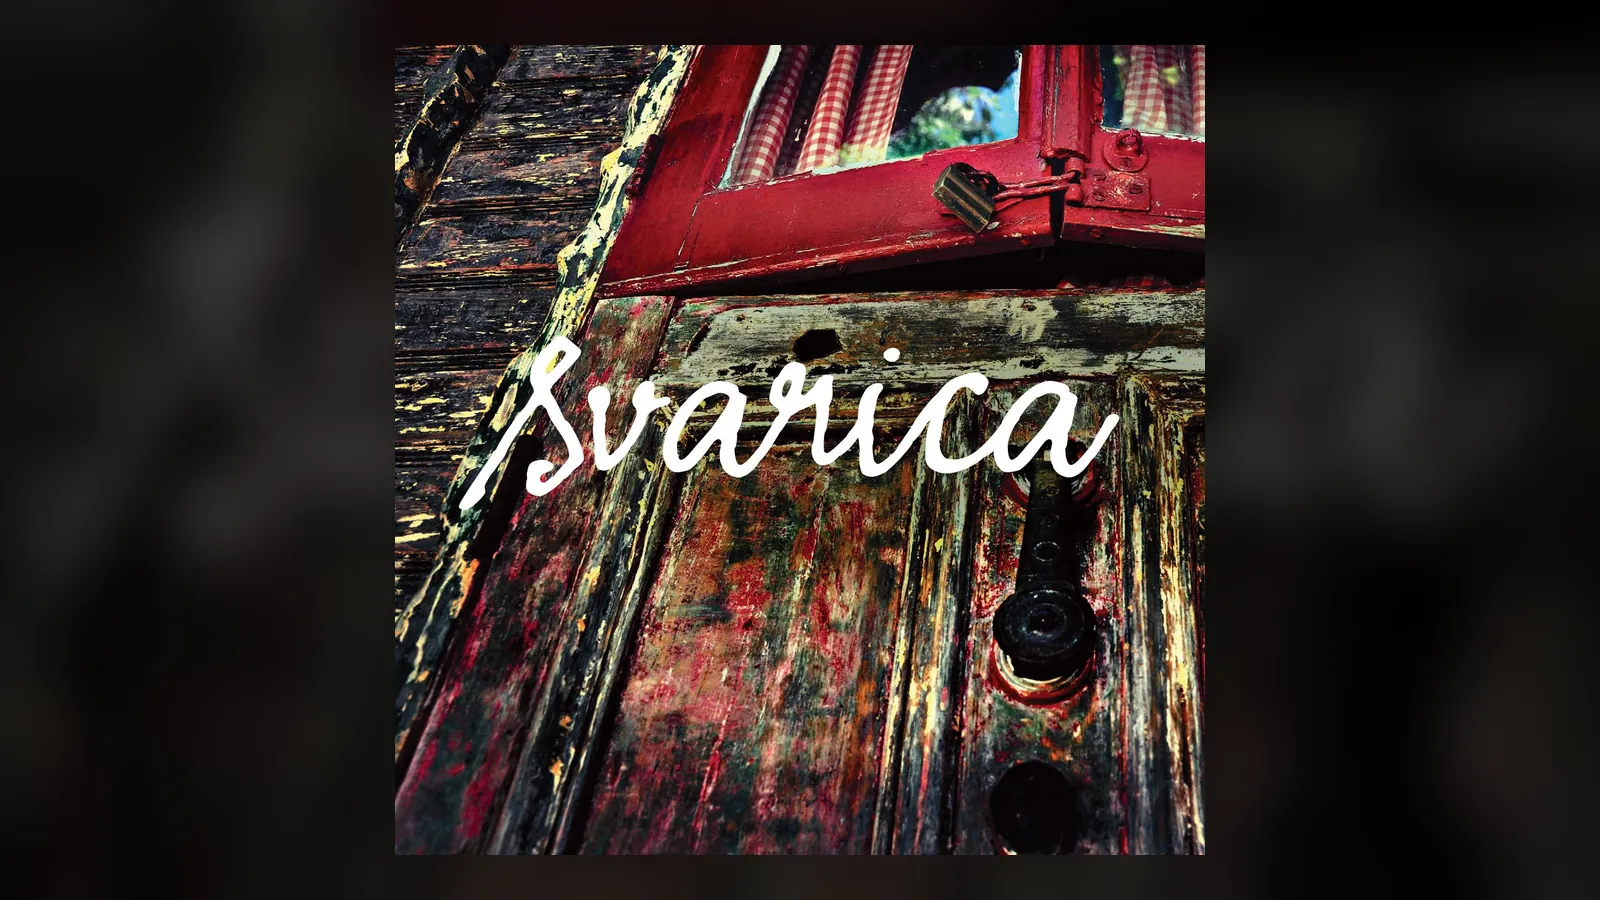
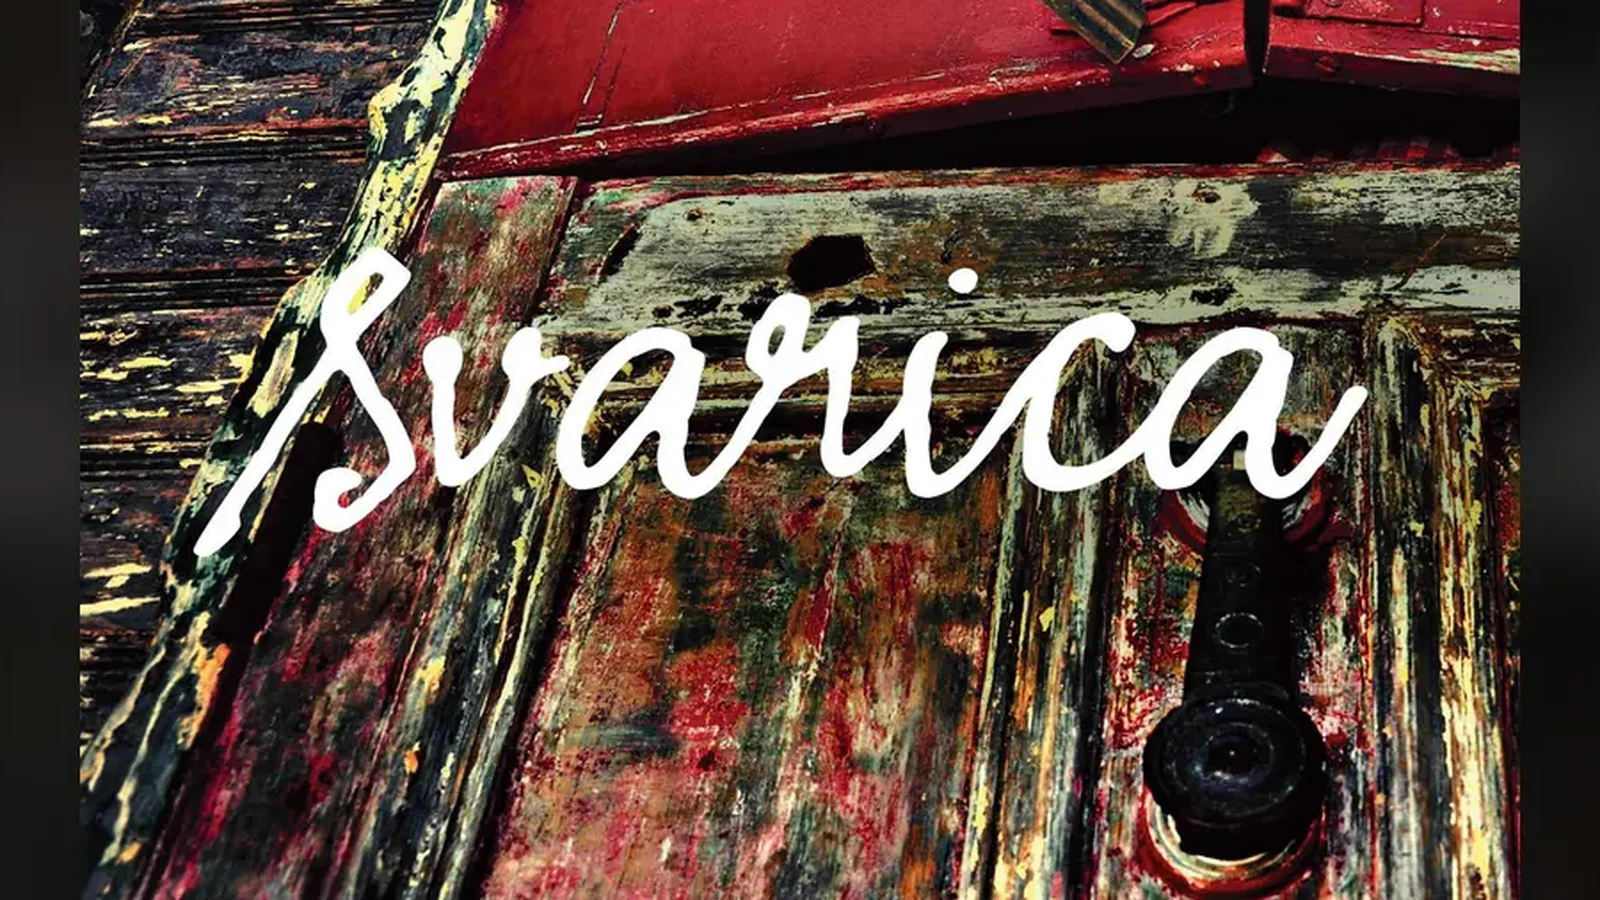
Retouches programmation : photo viking réelle (tuile), Skarazula+Harfang en tête des groupes, photos de groupes plein cadre (Caravane/BicOasis/Svarica), mots chronique et bestiaire retirés, Trifolys corrigé

diff --git a/src/pages/MusiquePage.tsx b/src/pages/MusiquePage.tsx
@@ -42,17 +42,17 @@ const JOUR_ORDRE: Record<GroupeJour, number> = { vendredi: 0, samedi: 1, dimanch
 // les corrections d'Alex (chaque portrait montre le bon groupe).
 const BANDS_ARCHIVES: Band[] = [
   {
-    name:  'L’Harfang',
-    image: '/wix/musique/407628b7.jpg',
-    bioFR: 'Jouant pour le festival depuis le tout début, L’Harfang est un duo de musique folklorique, médiévale, baroque et balfolk moderne. Vielle à roue (Alison Gowan) et musette 16 pouces (Éric Pichette).',
-    bioEN: 'Playing the festival since the very beginning, L’Harfang is a folk/medieval/baroque/balfolk duo led by hurdy-gurdy (Alison Gowan) and 16-inch musette bagpipe (Éric Pichette).',
-  },
-  {
     name:    'Skarazula',
     image:   '/wix/musique/2c6a22e9.jpg',
     website: 'https://www.skarazula.com',
     bioFR: 'Les musiciens de Skarazula cultivent depuis des années un intérêt pour la musique ancienne et poursuivent leurs recherches dans l’univers foisonnant de la musique médiévale. Plus d’un instrument dans leur sac, beaucoup confectionnés par le groupe lui-même.',
     bioEN: 'Skarazula’s musicians have cultivated for many years an interest in early music and continue their research into the rich, fascinating world of medieval music. More than one instrument in their bag, many handmade by the group itself.',
+  },
+  {
+    name:  'L’Harfang',
+    image: '/wix/musique/407628b7.jpg',
+    bioFR: 'Jouant pour le festival depuis le tout début, L’Harfang est un duo de musique folklorique, médiévale, baroque et balfolk moderne. Vielle à roue (Alison Gowan) et musette 16 pouces (Éric Pichette).',
+    bioEN: 'Playing the festival since the very beginning, L’Harfang is a folk/medieval/baroque/balfolk duo led by hurdy-gurdy (Alison Gowan) and 16-inch musette bagpipe (Éric Pichette).',
   },
   {
     name:    'Mystic Projekt',
@@ -93,6 +93,21 @@ const BANDS_ARCHIVES: Band[] = [
 // Encore en construction : d'autres noms s'ajouteront.
 const AFFICHE_2026_BANDS: Band[] = [
   {
+    name:    'Skarazula',
+    jour:    'vendredi',
+    image:   '/wix/musique/2c6a22e9.jpg',
+    website: 'https://www.skarazula.com',
+    bioFR: 'Les musiciens de Skarazula cultivent depuis des années un intérêt pour la musique ancienne et poursuivent leurs recherches dans l’univers foisonnant de la musique médiévale. Plus d’un instrument dans leur sac, plusieurs confectionnés par le groupe lui-même.',
+    bioEN: 'Skarazula’s musicians have cultivated for many years an interest in early music and continue their research into the rich, fascinating world of medieval music. More than one instrument in their bag, many handmade by the group itself.',
+  },
+  {
+    name:  'L’Harfang',
+    jour:  'samedi',
+    image: '/wix/musique/407628b7.jpg',
+    bioFR: 'Jouant pour le festival depuis le tout début, L’Harfang est un duo de musique folklorique, médiévale, baroque et balfolk moderne. Vielle à roue (Alison Gowan) et musette 16 pouces (Éric Pichette).',
+    bioEN: 'Playing the festival since the very beginning, L’Harfang is a folk/medieval/baroque/balfolk duo led by hurdy-gurdy (Alison Gowan) and 16-inch musette bagpipe (Éric Pichette).',
+  },
+  {
     name:    'Troupe Caravane',
     jour:    'vendredi',
     image:   '/wix/musique/troupe-caravane.webp',
@@ -100,14 +115,6 @@ const AFFICHE_2026_BANDS: Band[] = [
     website: 'http://www.troupecaravane.com',
     bioFR: 'Fondée à Montréal en 1980 par Sarah Barbieux, d’origine rom, la troupe CARAVANE porte le spectacle festif et participatif Fuego Bohemio : rumba flamenca, musique tzigane, chants et danses romanichelles. Sarah Barbieux (voix, danse, tambour) et Sylvain Chiasson (guitare, voix, flûte de pan, percussions).',
     bioEN: 'Founded in Montreal in 1980 by Sarah Barbieux, of Roma descent, the CARAVANE troupe brings its festive, participatory show Fuego Bohemio: rumba flamenca, Romani music, songs and bohemian dance. Sarah Barbieux (voice, dance, drum) and Sylvain Chiasson (guitar, voice, pan flute, percussion).',
-  },
-  {
-    name:    'Skarazula',
-    jour:    'vendredi',
-    image:   '/wix/musique/2c6a22e9.jpg',
-    website: 'https://www.skarazula.com',
-    bioFR: 'Les musiciens de Skarazula cultivent depuis des années un intérêt pour la musique ancienne et poursuivent leurs recherches dans l’univers foisonnant de la musique médiévale. Plus d’un instrument dans leur sac, plusieurs confectionnés par le groupe lui-même.',
-    bioEN: 'Skarazula’s musicians have cultivated for many years an interest in early music and continue their research into the rich, fascinating world of medieval music. More than one instrument in their bag, many handmade by the group itself.',
   },
   {
     name:    'L’Ensemble Klezmer de Sainte-Nigoune',
@@ -126,13 +133,6 @@ const AFFICHE_2026_BANDS: Band[] = [
     website: 'https://www.youtube.com/@BicOasis',
     bioFR: 'Rencontre de deux multi-instrumentistes : Mathieu Lavoie (bouzouki, morache, saz, vielle à roue) et William Provost (tambours, darbouka, tambour à lamelles, flûte à bourdon, cornemuse). Les traditions du monde entier passent au looper, aux synthés et aux pédales d’effets : une musique hybride, ancienne et moderne à la fois, organique et hypnotique.',
     bioEN: 'Two multi-instrumentalists meeting: Mathieu Lavoie (bouzouki, morache, saz, hurdy-gurdy) and William Provost (drums, darbuka, tongue drum, drone flute, bagpipe). Folk traditions from around the world run through loopers, synths and effect pedals: hybrid music, ancient and modern at once, organic and hypnotic.',
-  },
-  {
-    name:  'L’Harfang',
-    jour:  'samedi',
-    image: '/wix/musique/407628b7.jpg',
-    bioFR: 'Jouant pour le festival depuis le tout début, L’Harfang est un duo de musique folklorique, médiévale, baroque et balfolk moderne. Vielle à roue (Alison Gowan) et musette 16 pouces (Éric Pichette).',
-    bioEN: 'Playing the festival since the very beginning, L’Harfang is a folk/medieval/baroque/balfolk duo led by hurdy-gurdy (Alison Gowan) and 16-inch musette bagpipe (Éric Pichette).',
   },
   {
     name:  'Trifolys',
@@ -658,7 +658,7 @@ const FR = {
   section2026Note:    'Programmation en cours. Les horaires de passage seront annoncés sous peu.',
   sectionPastEyebrow: 'Archives',
   sectionPastTitle:   'Groupes des ans passés',
-  sectionPastLead:    'Les bardes qui ont animé les éditions précédentes du festival. Utilisez les chevrons (ou ← →) pour parcourir le bestiaire musical.',
+  sectionPastLead:    'Les bardes qui ont animé les éditions précédentes du festival. Utilisez les chevrons (ou ← →) pour parcourir les groupes.',
   artist:  'Artiste',
   spotify: 'Écouter sur Spotify',
   website: 'Site web',
@@ -681,7 +681,7 @@ const EN = {
   section2026Note:    'Lineup in progress. Set times will be announced shortly.',
   sectionPastEyebrow: 'Archives',
   sectionPastTitle:   'Bands from past years',
-  sectionPastLead:    'The bards who animated previous editions of the festival. Use the chevrons (or ← →) to browse the musical bestiary.',
+  sectionPastLead:    'The bards who animated previous editions of the festival. Use the chevrons (or ← →) to browse the bands.',
   artist:  'Artist',
   spotify: 'Listen on Spotify',
   website: 'Website',

diff --git a/src/pages/ActivitesPage.tsx b/src/pages/ActivitesPage.tsx
@@ -235,7 +235,7 @@ const ACTIVITIES: Array<{
   { titleFR: 'Vikings',          titleEN: 'Vikings',           bodyFR: 'Campement et combats',                                     bodyEN: 'Camp and combat',
     descFR: 'Le campement viking dresse ses tentes au cœur du festival. Combats vikings dans l’arène, concours culinaire au camp, parcours d’herboristerie : la vie nordique, grandeur nature.',
     descEN: 'The Viking camp pitches its tents at the heart of the festival. Viking combat in the arena, cooking contest at the camp, herbalism trail: Norse life, full scale.',
-    image: '/histoire/archives/lena/thumb/2025-IMG_3550.webp', category: 'combat' },
+    image: '/histoire/archives/lena/thumb/2025-IMG_4659.webp', category: 'combat' },
   { titleFR: 'Espace Jeunesse',  titleEN: 'Youth Space',       bodyFR: 'Parc, jeux, animations, gardiennage',                     bodyEN: 'Park, games, activities, supervision',
     descFR: 'Un campement réservé aux jeunes seigneurs : ateliers d’écuyer, jeux d’adresse, contes, gardiennage encadré. L’enfance médiévale, mais sans la peste.',
     descEN: 'A camp reserved for young lords: squire workshops, skill games, tales, supervised babysitting. Medieval childhood, but without the plague.',
@@ -1599,7 +1599,7 @@ const FR = {
   eyebrow: 'Programmation 2026',
   title: 'Activités',
   intro: 'Une fin de semaine entière de tournois, démonstrations, ateliers, contes et spectacles. Voici l’horaire complet et l’éventail d’activités qui vous attendent au festival.',
-  scheduleEyebrow: 'Chronique',
+  scheduleEyebrow: 'Horaire',
   scheduleTitle: 'Horaire et Programmation',
   scheduleMeta: 'Inscriptions',
   scheduleNote: 'L’horaire 2026 remplacera ce souvenir dès qu’il sera scellé.',
@@ -1617,7 +1617,7 @@ const FR = {
   activitiesTitle: 'Nos Activités',
   activitiesLead: 'Le FMM est fier de présenter une grande variété d’activités pour petits et grands, agréables autant pour les passionnés de médiéval que pour les gens qui ne font que passer.',
   activitiesHint: 'Cliquez sur une tuile pour ouvrir la fiche (bientôt)',
-  activitiesFootMeta: 'Bestiaire · 2026',
+  activitiesFootMeta: 'Activités · 2026',
   filterLabel: 'Filtrer',
   filters: {
     all:      'Tout',
@@ -1663,7 +1663,7 @@ const EN: typeof FR = {
   eyebrow: '2026 Programming',
   title: 'Activities',
   intro: 'A full weekend of tournaments, demonstrations, workshops, storytelling and shows. Below: the complete schedule and the spread of activities awaiting you at the festival.',
-  scheduleEyebrow: 'Chronicle',
+  scheduleEyebrow: 'Schedule',
   scheduleTitle: 'Schedule & Program',
   scheduleMeta: 'Entries',
   scheduleNote: 'The 2026 schedule will replace this keepsake once it is sealed.',
@@ -1681,7 +1681,7 @@ const EN: typeof FR = {
   activitiesTitle: 'Our Activities',
   activitiesLead: 'FMM is proud to present a wide variety of activities for kids and adults: equally enjoyable for medieval enthusiasts and casual visitors alike.',
   activitiesHint: 'Tap a tile to open the entry (soon)',
-  activitiesFootMeta: 'Bestiary · 2026',
+  activitiesFootMeta: 'Activities · 2026',
   filterLabel: 'Filter',
   filters: {
     all:      'All',

diff --git a/src/pages/HebergementPage.tsx b/src/pages/HebergementPage.tsx
@@ -339,7 +339,7 @@ const FR = {
   optTentBody:    'Pour les tentes et les petits véhicules. Un coin de verdure pour dormir au cœur de l’ambiance médiévale.',
   lodgingEyebrow: 'Autour du festival',
   lodgingTitle:   'Hébergements partenaires',
-  lodgingLead:    'Auberges, campings et gîtes des environs. Utilisez les chevrons (ou ← →) pour parcourir le bestiaire.',
+  lodgingLead:    'Auberges, campings et gîtes des environs. Utilisez les chevrons (ou ← →) pour parcourir les hébergements.',
   lodging:        'Hébergement',
   prev:           'Précédent',
   next:           'Suivant',
@@ -365,7 +365,7 @@ const EN: typeof FR = {
   optTentBody:    'For tents and small vehicles. A patch of green to sleep right in the heart of the medieval atmosphere.',
   lodgingEyebrow: 'Around the festival',
   lodgingTitle:   'Partner lodgings',
-  lodgingLead:    'Inns, campgrounds and B&Bs nearby. Use the chevrons (or ← →) to browse the bestiary.',
+  lodgingLead:    'Inns, campgrounds and B&Bs nearby. Use the chevrons (or ← →) to browse the lodgings.',
   lodging:        'Lodging',
   prev:           'Previous',
   next:           'Next',

diff --git a/src/pages/admin/sections/ParametresSection.tsx b/src/pages/admin/sections/ParametresSection.tsx
@@ -7,7 +7,7 @@ import { watchProgFlags, setProgFlag, PROG_FLAGS_DEFAULTS, type ProgFlags } from
 // Libellés FR des sections de la page publique Programmation, dans l'ordre
 // d'affichage souhaité par Tristan.
 const PROG_FLAG_ROWS: { flag: keyof ProgFlags; label: string }[] = [
-  { flag: 'bestiaire',        label: 'Bestiaire des activités' },
+  { flag: 'bestiaire',        label: 'Grille des activités' },
   { flag: 'horaire',          label: 'Horaire (souvenir 2025)' },
   { flag: 'banquet',          label: "Banquet de l'Équinoxe" },
   { flag: 'behourd',          label: 'Tournoi de Béhourd' },
